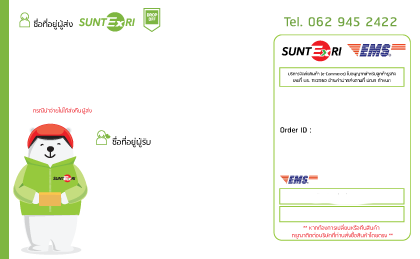
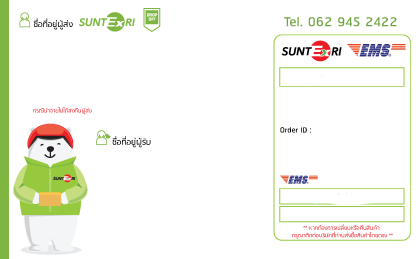
edit form

Changed region(s): [[0.681, 0.278, 0.9595, 0.3398]]

diff --git a/modules/core/server/views/formA6.server.view.html b/modules/core/server/views/formA6.server.view.html
@@ -65,12 +65,13 @@
 
 				<div style="margin-left: 140px;
 					margin-right: 0px;
+					margin-top:50px;
 					padding-left:10px;
 					background-color: white">
 					<h3>ระวังแตก!!!</h3>
 				</div>
 
-				<div style="margin-top:-70px">
+				<div style="margin-top:-105px">
 					<h5>{{main.s_name}}</h5>
 				</div>
 
@@ -81,15 +82,12 @@
 					<h6>{{main.s_ampher}}</h6>
 				</div>
 				<div style="margin-top:-20px">
-					<h6>{{main.s_country}}</h6>
+					<h6>{{main.s_country}} {{main.s_postcode}}</h6>
 				</div>
-				<br><br>
-				<div style="margin-left:6em">
-					<h4 style="margin-top:-60px">{{main.s_postcode}}</h4>
-				</div>
+
 			</div>
 			<div style="margin-left:7em">
-				<div style="margin-top:20px">
+				<div style="margin-top:45px">
 					<h5>{{main.r_name}} ({{main.r_tel}})</h5>
 				</div>
 				<div style="margin-top:-20px">
@@ -101,23 +99,34 @@
 				<div style="margin-top:-20px">
 					<h6>{{main.r_country}}</h6>
 				</div>
-				<div style="margin-left:6em">
-					<h4 style="margin-top:-25px">{{main.r_postcode}}</h4>
+				<div style="margin-left:0em">
+					<h4 style="margin-top:-20px">{{main.r_postcode}}</h4>
 				</div>
 			</div>
 		</div>
 		<div id='div2'>
-			<div style="margin-top:88px">
+			<div style="margin-top:68px">
+				<div style="margin-top:0px">
+					<p style="font-size: 5px">บริการจัดส่งพัสดุด่วนเพื่อธุรกิจ e-Commerce (บริการ e-Parcel)</p>
+				</div>
+				<div style="margin-top:-5px">
+					<p style="font-size: 5px">ใบอนุญาตสำหรับลูกค้าธุรกิจ เลขที่ ขล. 11/2560 </p>
+				</div>
+				<div style="margin-top:-5px">
+					<p style="font-size: 5px">ชำระค่าบริการตามที่ ปณท กำหนด </p>
+				</div>
+			</div>
+			<div style="margin-top:-5px">
 				<svg class="barcode"
 					 jsbarcode-value="{{main.order}}"
 					 jsbarcode-textmargin="0"
 					 jsbarcode-fontoptions="bold">
 				</svg>
 			</div>
-			<div style="margin-top:-31px">
+			<div style="margin-top:-30px">
 				<h6>{{main.order}}</h6>
 			</div>
-			<div style="margin-top:-26px">
+			<div style="margin-top:-28px">
 				<svg class="barcode"
 					 jsbarcode-value="{{main.barcode}}"
 					 jsbarcode-textmargin="0"
@@ -129,19 +138,19 @@
 				<h6>&nbsp;&nbsp;&nbsp;&nbsp;&nbsp;&nbsp;&nbsp;&nbsp;&nbsp;&nbsp;&nbsp;&nbsp;{{main.barcode}}</h6>
 			</div>
 
-			<div style="margin-top:-20px">
+			<div style="margin-top:-22px">
 				<h6>ชำระค่าขนส่งสินค้าแล้ว</h6>
 			</div>
 
-			<div class="text-danger" style="margin-top:-20px">
+			<div class="text-danger" style="margin-top:-23px">
 				<h5 style="color:#FF0000">COD {{main.productPrice}} บาท</h5>
 			</div>
 		</div>
 
 		<script type="text/javascript">
    JsBarcode(".barcode", "Smallest width", {
-   width: 0.6,
-   height: 18,
+   width: 0.7,
+   height: 20,
    fontSize: 0
  }).init();
    //JsBarcode("#barcode").init();

diff --git a/modules/core/server/views/formA4.server.view.html b/modules/core/server/views/formA4.server.view.html
@@ -45,34 +45,36 @@
 		<div id='div1'>
 			<br>
 			<div style="margin-left:3em">
-
-				{% if main.isCod %}
-				<div style="margin-left: 500px; 
+				<div style="margin-top:80px">
+					{% if main.isCod %}
+					<div style="margin-left: 500px;
 					margin-right: 40px;
 					padding-left:10px;
-					background-color: red"> 
-					<h1>COD</h1>
-				</div>
-				{% endif %}
+					background-color: red">
+						<h1>COD</h1>
+					</div>
+					{% endif %}
 
-				{% if !main.isCod %}
-				<div style="margin-left: 500px; 
-					margin-right: 40px;
-					padding-left:10px;
-					background-color: white"> 
-					<h1 style="color: white">COD</h1>
-				</div>
-				{% endif %}
-
-				<div style="margin-left: 410px;
+					{% if !main.isCod %}
+					<div style="margin-left: 500px;
 					margin-right: 40px;
 					padding-left:10px;
 					background-color: white">
-					<h1>ระวังแตก!!!</h1>
+						<h1 style="color: white">COD</h1>
+					</div>
+					{% endif %}
+
+					<div style="margin-left: 410px;
+					margin-right: 40px;
+					margin-top: 50px;
+					padding-left:10px;
+					background-color: white">
+						<h1>ระวังแตก!!!</h1>
+					</div>
 				</div>
 
 
-				<div style="margin-top:-80px">
+				<div style="margin-top:-160px">
 					<h1>{{main.s_name}}</h1>
 				</div>
 
@@ -83,15 +85,12 @@
 					<h3>{{main.s_ampher}}</h3>
 				</div>
 				<div style="margin-top:-10px">
-					<h3>{{main.s_country}}</h3>
-				</div>
-				<div style="margin-left:15em">
-					<h1 style="margin-top:40px">{{main.s_postcode}}</h1>
+					<h3>{{main.s_country}} {{main.s_postcode}}</h3>
 				</div>
 			</div>
 			<div style="margin-left:15em">
 				<br><br>
-				<div style="margin-top:0px">
+				<div style="margin-top:100px">
 					<h1>{{main.r_name}}</h1>
 				</div>
 				<div style="margin-top:0px">
@@ -106,13 +105,24 @@
 				<div style="margin-top:-10px">
 					<h3>{{main.r_country}}</h3>
 				</div>
-				<div style="margin-left:12em">
+				<div style="margin-left:0em">
 					<h1 style="margin-top:10px">{{main.r_postcode}}</h1>
 				</div>
 			</div>
 		</div>
 		<div id='div2'>
-			<div style="margin-top:220px">
+			<div style="margin-top:180px">
+				<div style="margin-top:-8px">
+					<p style="font-size: 11px">บริการจัดส่งพัสดุด่วนเพื่อธุรกิจ e-Commerce (บริการ e-Parcel)</p>
+				</div>
+				<div style="margin-top:-9px">
+					<p style="font-size: 11px">ใบอนุญาตสำหรับลูกค้าธุรกิจ เลขที่ ขล. 11/2560 </p>
+				</div>
+				<div style="margin-top:-9px">
+					<p style="font-size: 11px">ชำระค่าบริการตามที่ ปณท กำหนด </p>
+				</div>
+			</div>
+			<div style="margin-top:-5px">
 				<svg class="barcode"
 					 jsbarcode-value="{{main.order}}"
 					 jsbarcode-textmargin="0"

diff --git a/modules/core/server/views/formA5.server.view.html b/modules/core/server/views/formA5.server.view.html
@@ -64,13 +64,14 @@
 
 			<div style="margin-left: 270px;
 					margin-right: 0px;
+					margin-top:100px;
 					padding-left:10px;
 					background-color: white">
 				<h1>ระวังแตก!!!</h1>
 			</div>
 
 			<div style="margin-left:3em">
-				<div style="margin-top:-80px">
+				<div style="margin-top:-160px">
 					<h3>{{main.s_name}}</h3>
 				</div>
 				<div style="margin-top:-10px">
@@ -80,12 +81,10 @@
 					<span>{{main.s_ampher}}</span>
 				</div>
 				<div style="margin-top:10px">
-					<span>{{main.s_country}}</span>
+					<span>{{main.s_country}} {{main.s_postcode}}</span>
 				</div>
 				<br><br>
-				<div style="margin-left:10em">
-					<h1 style="margin-top:-20px">{{main.s_postcode}}</h1>
-				</div>
+
 			</div>
 			<div style="margin-left:11em">
 				<div style="margin-top:50px">
@@ -100,7 +99,7 @@
 				<div style="margin-top:10px">
 					<span>{{main.r_country}}</span>
 				</div>
-				<div style="margin-left:10em">
+				<div style="margin-left:0em">
 					<h1 style="margin-top:10px">{{main.r_postcode}}</h1>
 				</div>
 				<!--<div style="margin-left:10em">-->
@@ -109,7 +108,18 @@
 			</div>
 		</div>
 		<div id='div2'>
-			<div style="margin-top:150px">
+			<div style="margin-top:120px">
+				<div style="margin-top:0px">
+					<p style="font-size: 8px">บริการจัดส่งพัสดุด่วนเพื่อธุรกิจ e-Commerce (บริการ e-Parcel)</p>
+				</div>
+				<div style="margin-top:-8px">
+					<p style="font-size: 8px">ใบอนุญาตสำหรับลูกค้าธุรกิจ เลขที่ ขล. 11/2560 </p>
+				</div>
+				<div style="margin-top:-8px">
+					<p style="font-size: 8px">ชำระค่าบริการตามที่ ปณท กำหนด </p>
+				</div>
+			</div>
+			<div style="margin-top:-5px">
 				<svg class="barcode"
 					 jsbarcode-value="{{main.order}}"
 					 jsbarcode-textmargin="0"
@@ -131,7 +141,7 @@
 				<span>&nbsp;&nbsp;&nbsp;&nbsp;&nbsp;&nbsp;&nbsp;&nbsp;&nbsp;&nbsp;&nbsp;&nbsp;{{main.barcode}}</span>
 			</div>
 
-			<div style="margin-top:-5px">
+			<div style="margin-top:-8px">
 				<h5>ชำระค่าขนส่งสินค้าแล้ว</h5>
 			</div>
 

diff --git a/modules/core/server/views/sticker.server.view.html b/modules/core/server/views/sticker.server.view.html
@@ -60,7 +60,9 @@
 			</div>
 			<div style="margin-top:50px">
 				<div id='div2' style="margin-left:15px">
-				<p style="margin-top:5px"><small>บริการจัดส่งสินค้า (e-commerce) ใบอนุญาตสำหรับธุรกิจ เลขที่ บธ.11/2560 ชำระค่าฝากส่งตามที่ ปณท. กำหนด</small></p>
+					<p style="margin-top:0px; font-size: 11px">บริการจัดส่งพัสดุด่วนเพื่อธุรกิจ e-Commerce</p>
+					<p style="margin-top:-5px; font-size: 11px">(บริการ e-Parcel) ใบอนุญาตสำหรับลูกค้าธุรกิจ</p>
+					<p style="margin-top:-5px; font-size: 11px">เลขที่ ขล.11/2560 ชำระค่าบริการตามที่ ปณท กำหนด</p>
 				</div>
 			</div>
 			<div style="margin-top:-50px">
@@ -97,7 +99,7 @@
 
 			<div style="margin-top:-20px">
 				<div id='div3' style="margin-left:3px">
-					<h1 style="margin-top:0px"><strong>COD {{main.productPrice}} บาท</strong></h1>
+					<h1 style="margin-top:0px; color: red"><strong>COD {{main.productPrice}} บาท</strong></h1>
 				</div>
 			</div>
 			<!--<div style="margin-top:0px">-->

diff --git a/modules/mains/server/controllers/mains.server.controller.js b/modules/mains/server/controllers/mains.server.controller.js
@@ -501,12 +501,16 @@ exports.exportSummary = function (req, res, next) {
 				json.reciver_country = mains[i].r_country;
 				json.reciver_postcode = mains[i].r_postcode;
 				json.weight = mains[i].weight;
-				json.actual_weigth = mains[i].tpWeight;
+				json.actual_weight = mains[i].tpWeight;
 				json.amount = mains[i].total;
 				json.actual_amount = mains[i].afterPrice;
 				json.diff_amount = mains[i].total - mains[i].afterPrice;
+				json.productPrice = mains[i].productPrice;
 				json.cod = mains[i].codAmnt;
+				json.codVat = mains[i].codVatAmnt;
 				json.insurance = mains[i].insuranceAmnt;
+				json.insuranceVatAmnt = mains[i].insuranceVatAmnt;
+				json.totalVatAmnt = mains[i].totalVatAmnt;
 				json.comment = mains[i].detail_Product;
 				json.status = mains[i].status;
 				jsonArr.push(json);

diff --git a/modules/payment/server/controllers/payment.server.controller.js b/modules/payment/server/controllers/payment.server.controller.js
@@ -7,10 +7,10 @@ exports.request = function(req, res, next) {
     var paymentDescription = req.body.paymentDescription;
     var amount = req.body.amount;
     var defaultLang = 'th';
-    var resultUrl1 = 'http://188.166.183.79:3000/mains';
-    var resultUrl2 = 'http://188.166.183.79:3000/mains';
-    var resultUrl1 = 'http://suntoriexpress.com/mains';
-    var resultUrl2 = 'http://suntoriexpress.com/mains';
+    var resultUrl1 = 'http://128.199.143.135:3000/mains';
+    var resultUrl2 = 'http://128.199.143.135:3000/mains';
+    var resultUrl1 = 'http://post.suntoriexpress.com/mains';
+    var resultUrl2 = 'http://post.suntoriexpress.com/mains';
     var secretKey  = 'SyVSRZHCDk28';
     var stringToHash  = "";
 
